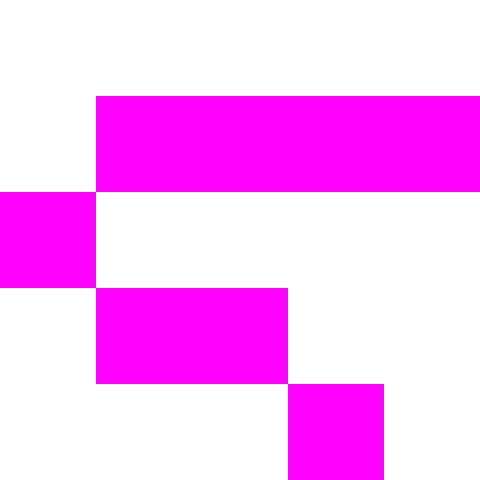
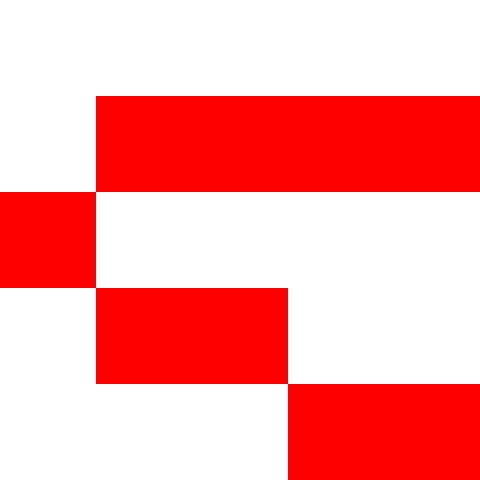
241112_이동 collision 업데이트

diff --git a/PokemonRuby/EnginePlatform/EngineWInImage.cpp b/PokemonRuby/EnginePlatform/EngineWInImage.cpp
@@ -161,28 +161,28 @@ void UEngineWinImage::Load(UEngineWinImage* _TargetImage, std::string_view _Path
 	GetObject(hBitMap, sizeof(BITMAP), &Info);
 }
 
-//UColor UEngineWinImage::GetColor(FIntPoint _Point, UColor _DefaultColor = UColor::WHITE)
-//{
-//	if (0 > _Point.X)
-//	{
-//		return _DefaultColor;
-//	}
-//
-//	if (0 > _Point.Y)
-//	{
-//		return _DefaultColor;
-//	}
-//
-//	if (Info.bmWidth <= _Point.X)
-//	{
-//		return _DefaultColor;
-//	}
-//
-//	if (Info.bmHeight <= _Point.Y)
-//	{
-//		return _DefaultColor;
-//	}
-//
-//	UColor ResultColor = ::GetPixel(ImageDC, _Point.X, _Point.Y);
-//	return ResultColor;
-//}
+UColor UEngineWinImage::GetColor(FIntPoint _Point, UColor _DefaultColor)
+{
+	if (0 > _Point.X)
+	{
+		return _DefaultColor;
+	}
+
+	if (0 > _Point.Y)
+	{
+		return _DefaultColor;
+	}
+
+	if (Info.bmWidth <= _Point.X)
+	{
+		return _DefaultColor;
+	}
+
+	if (Info.bmHeight <= _Point.Y)
+	{
+		return _DefaultColor;
+	}
+
+	UColor ResultColor = ::GetPixel(ImageDC, _Point.X, _Point.Y);
+	return ResultColor;
+}

diff --git a/PokemonRuby/PokemonProject/Player.h b/PokemonRuby/PokemonProject/Player.h
@@ -41,6 +41,7 @@ public:
     void PlayerCameraCheck();
     void PlayerDebugCheck(float _DeltaTime);
     void MapSizeCheck(FVector2D _Size);
+    void PlayerGroundCheck(FVector2D _MovePos);
 
     void SetObject();
 
@@ -53,12 +54,14 @@ public:
     void IdleStart();
     void WalkStart();
 
+
+
     EPlayerDir GetCurDir()
     {
         return CurDir;
     }
 
-
+    void SetColImage(std::string_view _ColImageName);
     FVector2D GetTargetLocation() const;
     void SetTargetLocation(const FVector2D& NewTarget);
 
@@ -82,7 +85,9 @@ private:
 
     class USpriteRenderer* SpriteRenderer = nullptr;
     class USpriteRenderer* SpriteMapRenderer = nullptr;
+    class UEngineWinImage* ColImage = nullptr;
     FVector2D MapSize = FVector2D::ZERO;
+    UColor CheckColor = UColor::WHITE;
 
     UFSMStateManager FSM;
     

diff --git a/PokemonRuby/PokemonProject/LaborProfessorBirchMode.cpp b/PokemonRuby/PokemonProject/LaborProfessorBirchMode.cpp
@@ -6,8 +6,8 @@
 #include <EngineCore/Level.h>
 
 
-#include "LaborProfessorBirchMap.h"
 #include "Player.h"
+#include "LaborProfessorBirchMap.h"
 #include "PokemonMapMode.h"
 
 FIntPoint ALaborProfessorBirchMode::LaborProfessorBirchModeChangePos;
@@ -29,6 +29,8 @@ void ALaborProfessorBirchMode::BeginPlay()
 	{
 		ALaborProfessorBirchMap* NewActor = GetWorld()->SpawnActor<ALaborProfessorBirchMap>();
 		Map = NewActor->GetCurMap();
+		APlayer* Player = GetWorld()->GetPawn<APlayer>();
+		Player->SetColImage("LaborProfessorBirch Collision.png");
 	}
 }
 

diff --git a/PokemonRuby/PokemonProject/PokemonMap.cpp b/PokemonRuby/PokemonProject/PokemonMap.cpp
@@ -17,14 +17,6 @@ APokemonMap::APokemonMap()
 		FVector2D MapScale = SpriteRenderer->SetSpriteScale(1.0f);
 		SpriteRenderer->SetComponentLocation(MapScale.Half());
 	}
-	{
-		SpriteRenderer = CreateDefaultSubObject<USpriteRenderer>();
-		SpriteRenderer->SetOrder(ERenderOrder::PLAYER);
-		SpriteRenderer->SetSprite("PokemonMapCollision.png");
-
-		FVector2D MapScale = SpriteRenderer->SetSpriteScale(1.0f);
-		SpriteRenderer->SetComponentLocation(MapScale.Half());
-	}
 }
 
 APokemonMap::~APokemonMap()

diff --git a/PokemonRuby/PokemonProject/PokemonMapMode.cpp b/PokemonRuby/PokemonProject/PokemonMapMode.cpp
@@ -36,6 +36,8 @@ APokemonMapMode::~APokemonMapMode()
 void APokemonMapMode::BeginPlay()
 {
 	Super::BeginPlay();
+	APlayer* Player = GetWorld()->GetPawn<APlayer>();
+	Player->SetColImage("PokemonMapCollision.png");
 
 	// AFlower
 	{
@@ -436,6 +438,12 @@ void APokemonMapMode::BeginPlay()
 		newsea150->SetActorLocationTile({ 111, 11 });
 	}
 
+	//---------------------------------------------------------
+	{
+		
+	}
+	
+	
 	// AWater
 	{
 		AWater* newWater1 = GetWorld()->SpawnActor<AWater>();

diff --git a/PokemonRuby/PokemonProject/PlayerHouse1FloorMode.cpp b/PokemonRuby/PokemonProject/PlayerHouse1FloorMode.cpp
@@ -5,6 +5,7 @@
 #include <EngineCore/EngineAPICore.h>
 #include <EngineCore/Level.h>
 
+#include "Player.h"
 #include "PokemonMath.h"
 #include "PlayerHouse1FloorMap.h"
 
@@ -30,6 +31,8 @@ void APlayerHouse1FloorMode::BeginPlay()
 	{
 		APlayerHouse1FloorMap* NewActor = GetWorld()->SpawnActor<APlayerHouse1FloorMap>();
 		Map = NewActor->GetCurMap();
+		APlayer* Player = GetWorld()->GetPawn<APlayer>();
+		Player->SetColImage("PlayerHouse_1 Collision.png");
 	}
 }
 

diff --git a/PokemonRuby/EngineBase/EngineMath.cpp b/PokemonRuby/EngineBase/EngineMath.cpp
@@ -17,7 +17,7 @@ const UColor UColor::WHITE = { 255, 255, 255, 0 };
 const UColor UColor::BLACK = { 0, 0, 0, 0 };
 const UColor UColor::GREEN = { 0, 255, 0, 0 };
 const UColor UColor::BLUE = { 0, 0, 255, 0 };
-const UColor UColor::MAGENTA = { 255, 0, 255, 0 };
+const UColor UColor::RED = { 255, 0, 0, 0 };
 
 
 FIntPoint FVector2D::ConvertToPoint() const

diff --git a/PokemonRuby/PokemonProject/TruckMode.cpp b/PokemonRuby/PokemonProject/TruckMode.cpp
@@ -27,6 +27,9 @@ void ATruckMode::BeginPlay()
 		ATruckMap* NewActor = GetWorld()->SpawnActor<ATruckMap>();
 		Map = NewActor->GetCurMap();
 		UEngineAPICore::GetCore()->GetCurLevel()->GetPawn()->SetActorLocation(StartPos.ToFVector());
+
+		APlayer* Player = GetWorld()->GetPawn<APlayer>();
+		Player->SetColImage("TruckCollision.png");
 	}
 }
 

diff --git a/PokemonRuby/PokemonProject/PlayerHouse1Mode.cpp b/PokemonRuby/PokemonProject/PlayerHouse1Mode.cpp
@@ -26,6 +26,8 @@ void APlayerHouse1Mode::BeginPlay()
 	{
 		APlayerHouse1Map* NewActor = GetWorld()->SpawnActor<APlayerHouse1Map>();
 		Map = NewActor->GetCurMap();
+		APlayer* Player = GetWorld()->GetPawn<APlayer>();
+		Player->SetColImage("PlayerHouse_1 Collision.png");
 	}
 }
 

diff --git a/PokemonRuby/EngineBase/EngineMath.h b/PokemonRuby/EngineBase/EngineMath.h
@@ -327,7 +327,7 @@ class UColor
 public:
 	static const UColor WHITE;
 	static const UColor BLACK;
-	static const UColor MAGENTA;
+	static const UColor RED;
 	static const UColor GREEN;
 	static const UColor BLUE;
 
